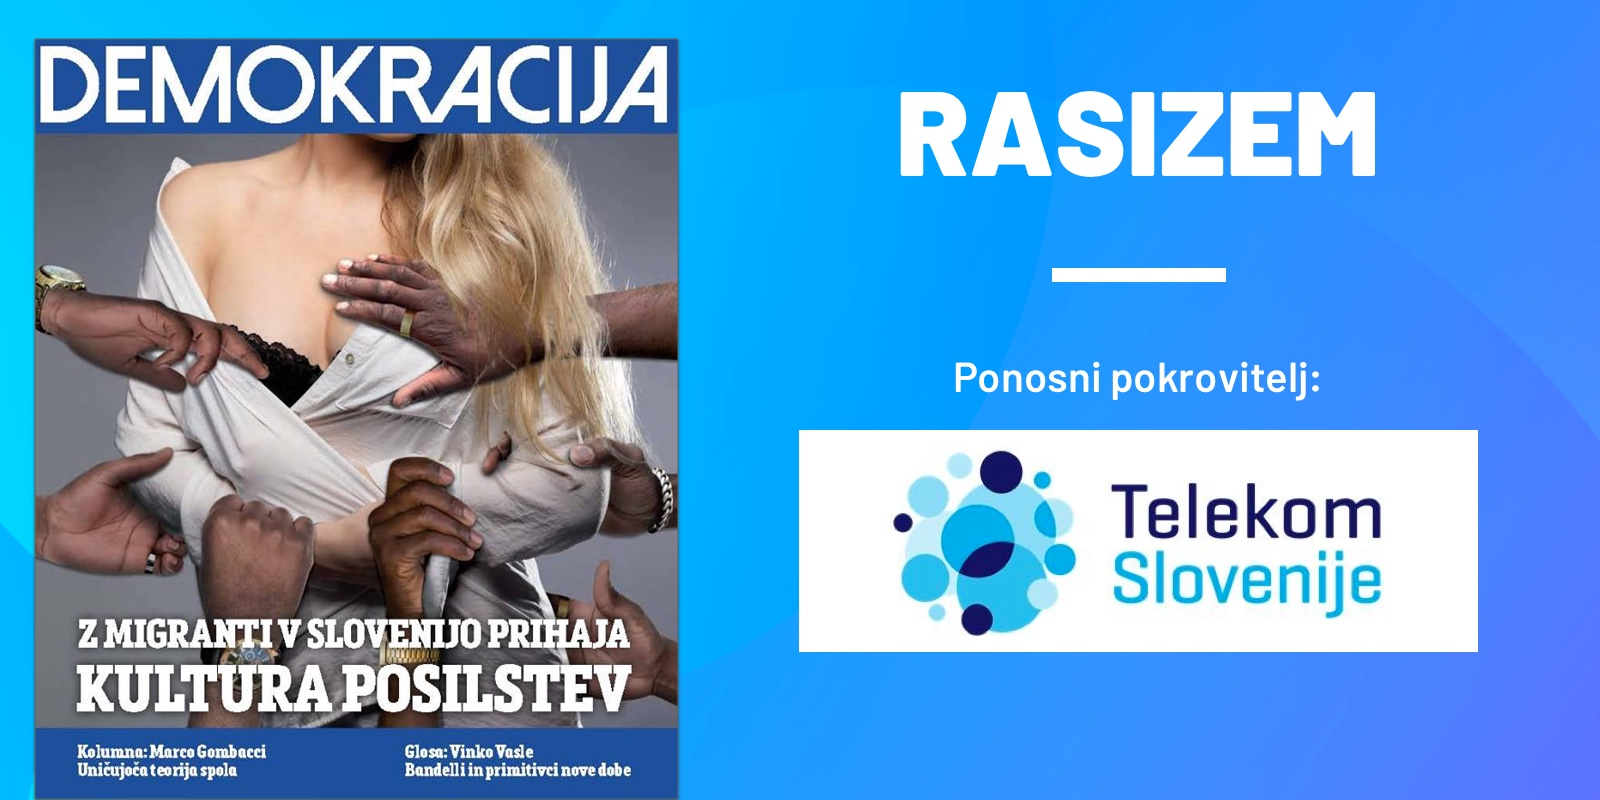
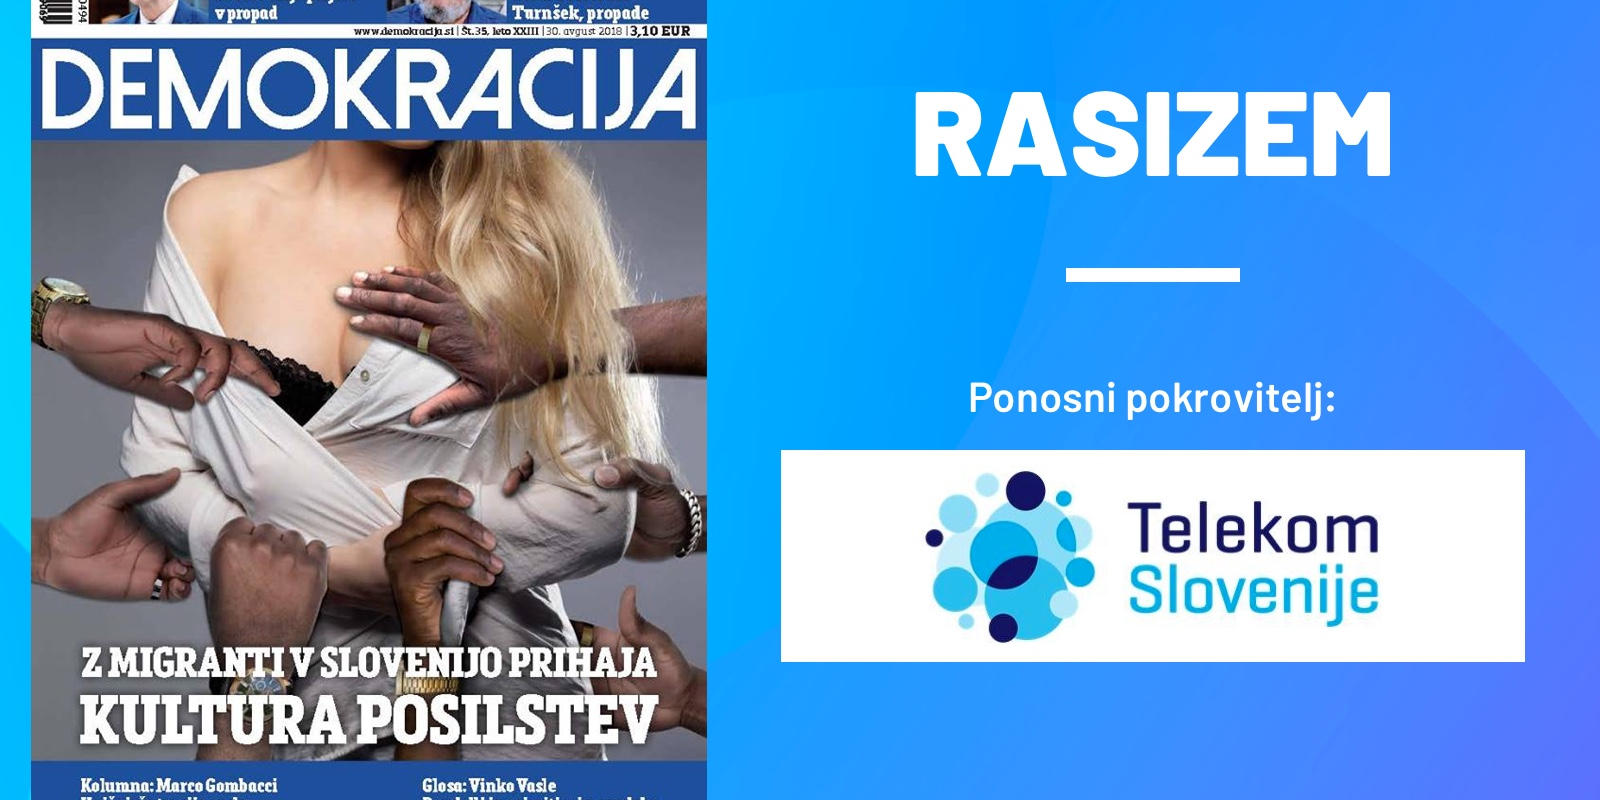
size fixes and new images

diff --git a/pokrovitelji/src/components/Content.vue b/pokrovitelji/src/components/Content.vue
@@ -65,7 +65,7 @@ export default {
 $black: #363636;
 
 #content {
-  max-width: 1680px;
+  max-width: 992px;
   margin: auto;
   padding: 40px;
 
@@ -119,7 +119,7 @@ $black: #363636;
   .text {
     text-align: center;
     max-width: 1200px;
-    font-size: 40px;
+    font-size: 30px;
     position: relative;
     margin: auto;
     margin-top: 40px;
@@ -149,15 +149,15 @@ $black: #363636;
 
 @media (max-width: 480px) {
   #content {
-    padding-left: 20px;
-    padding-right: 20px;
+    padding-left: 30px;
+    padding-right: 30px;
 
     .divider {
       margin-bottom: 100px;
     }
 
     .text {
-      font-size: 21px;
+      font-size: 20px;
     }
   }
 }
